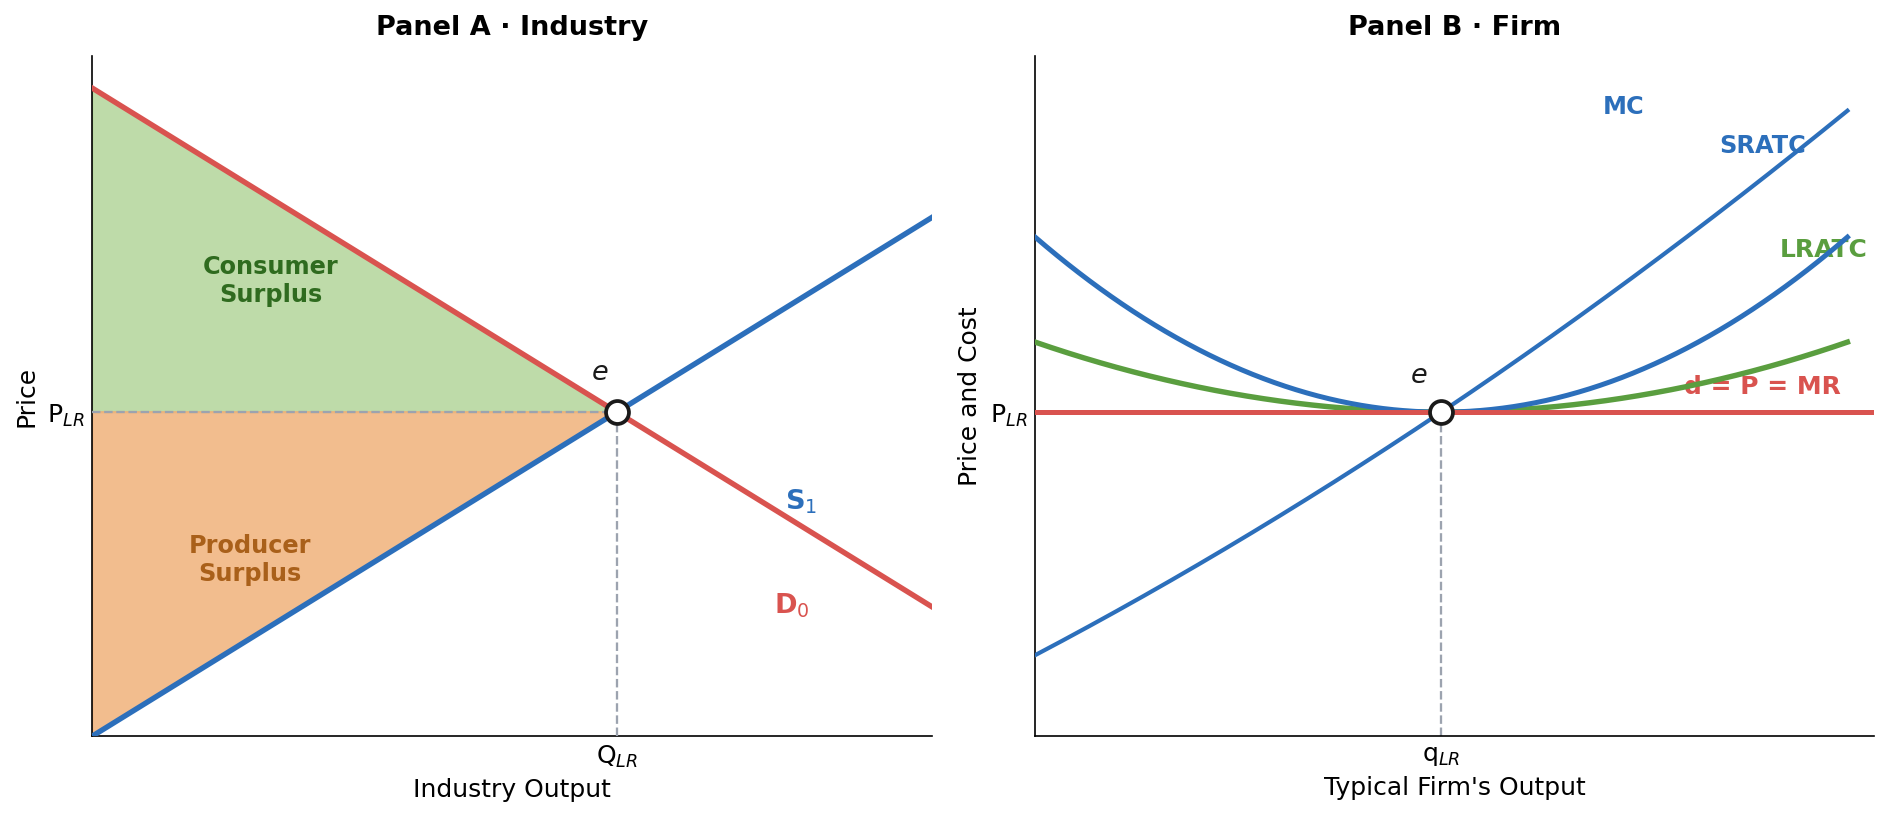
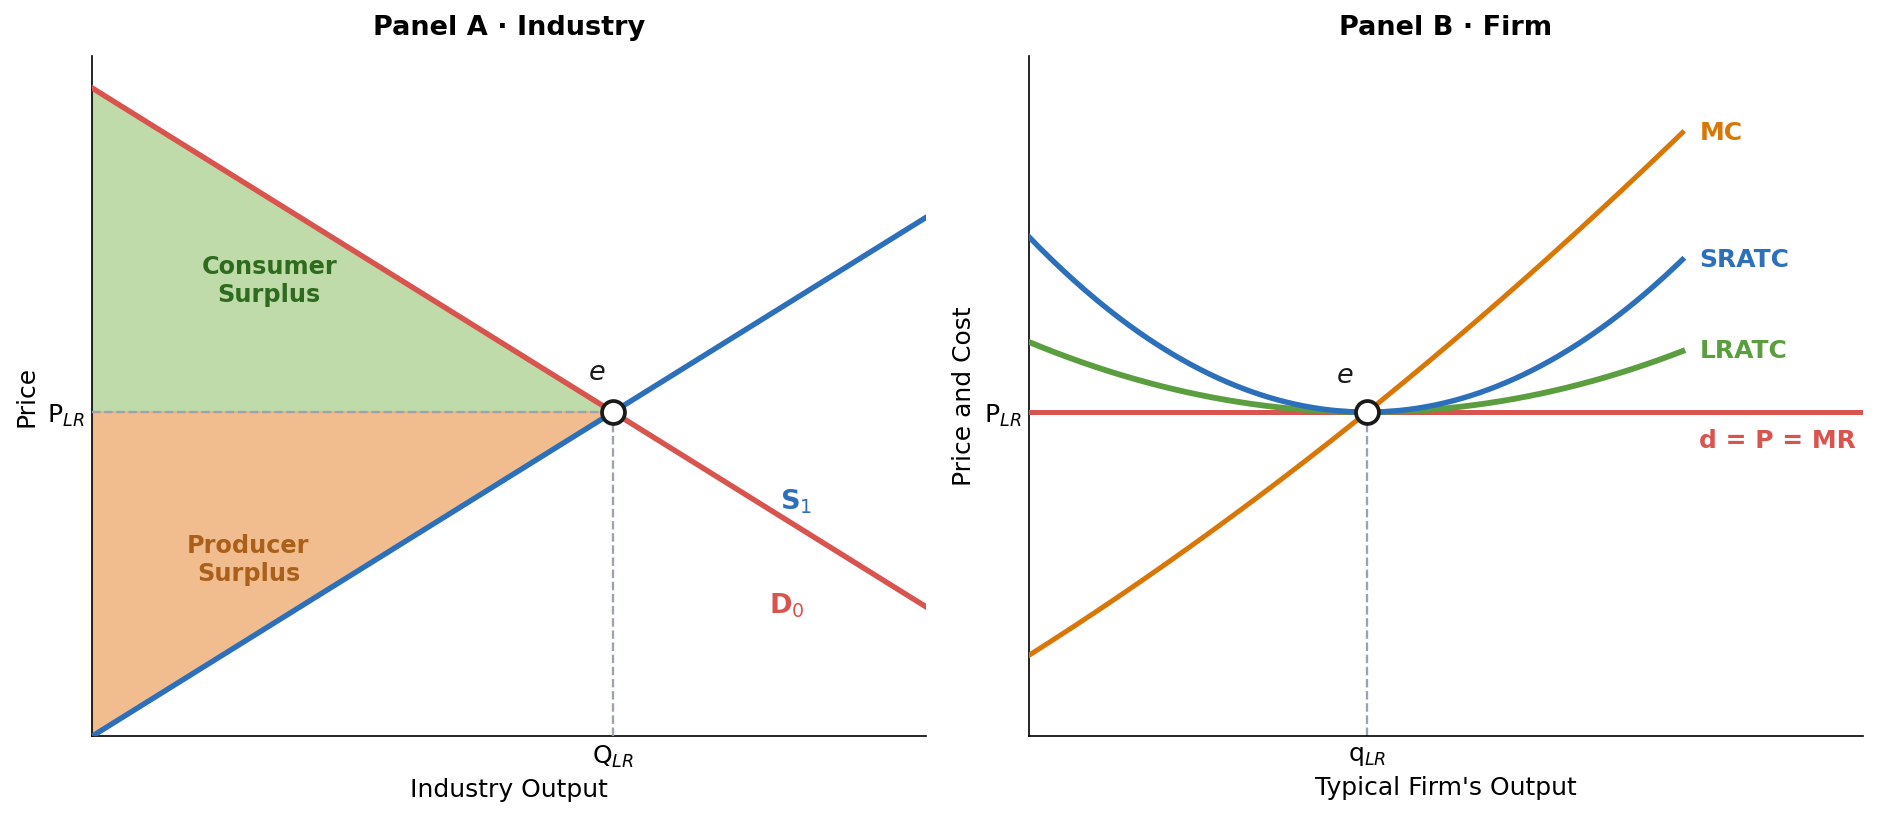
ch10: min-ATC-shift + LR-industry-supply slides; fix+merge efficiency slide
- Fix fig-lr-efficiency: MC now orange (distinct from SRATC blue), every curve
  label parked on its curve (was: SRATC hard to read, MC label floating).
- Merge the Efficiency Payoff slide INTO lr-efficiency (First Welfare Theorem
  line added to the equation box); delete the standalone efficiency-payoff slide.
- NEW 'A Cost Shock Raises min ATC' (after egg shock, from the hand-drawn ref):
  egg market $3.30->$4.95 + the firm's whole ATC family shifting up so min ATC
  (the LR price) rises $3.30->$4.95 (render_minatc_shift.py).
- NEW 'Long-Run Industry Supply' (after trucking): 3-panel increasing/constant/
  decreasing cost with S_LR up/flat/down + a/b/c (render_lr_industry_supply.py).
- Deck now 98 slides.

diff --git a/econ1116/ch10-perfect-competition/index.html b/econ1116/ch10-perfect-competition/index.html
@@ -1523,8 +1523,9 @@
  <div style="text-align:center;">
   <img src="figures/fig-lr-efficiency.png" alt="Two panels: the industry equilibrium e maximizes consumer plus producer surplus; the firm's flat demand is tangent to LRATC at its minimum where P=MR=MC=SRATC min=LRATC min" style="max-width:100%; max-height:328px; object-fit:contain;">
  </div>
- <div style="background:#f8f6f3; border-radius:8px; padding:7px 18px; margin-top:5px; text-align:center; border:2px solid var(--accent-color);">
-  <p style="font-size:16pt; margin:0; font-weight:700;">P = MR = MC = SRATC<sub>min</sub> = LRATC<sub>min</sub></p>
+ <div style="background:#f8f6f3; border-radius:8px; padding:8px 18px; margin-top:5px; text-align:center; border:2px solid var(--accent-color);">
+  <p style="font-size:16pt; margin:0 0 3px; font-weight:700;">P = MR = MC = SRATC<sub>min</sub> = LRATC<sub>min</sub></p>
+  <p style="font-size:11.5pt; margin:0; color:var(--text-color);">Both efficiencies, achieved <strong>automatically</strong> &mdash; the <strong>First Welfare Theorem</strong> (Arrow &amp; Debreu, 1950s) that Ch 6 previewed, now in its home habitat.</p>
  </div>
  <aside class="notes">The capstone diagram. Panel A: at the long-run equilibrium e, consumer surplus (green) + producer surplus (orange) are as large as they can be &mdash; total surplus is maximized. Panel B: the typical firm&rsquo;s flat demand d = P = MR is tangent to the LRATC at its minimum, which is also the minimum of the relevant SRATC, with MC passing through &mdash; so all five are equal: P = MR = MC = SRATC_min = LRATC_min. Production efficiency (min ATC) AND allocative efficiency (P = MC) together. The First Welfare Theorem, visualized.</aside>
 </section>
@@ -1547,6 +1548,18 @@
  <aside class="notes">Relocated to follow the long-run efficiency capstone, reframed as the SUPPLY-shock counterpoint to the demand-shock (dorm) story. A perfectly competitive market meeting a biological supply ceiling: steep (inelastic) short-run supply means a ~12% quantity cut along inelastic demand produced a 50% price spike; then over-rebuilding overshot the other way. The companion FRED series lets students measure the spike themselves.</aside>
 </section>
 
+<!-- change in min ATC: the egg cost shock raises min ATC -->
+<section id="minatc-shift">
+ <h2><i class="fa-solid fa-arrow-trend-up" style="color: var(--danger-color);"></i> A Cost Shock Raises min ATC</h2>
+ <div style="text-align:center;">
+  <img src="figures/fig-minatc-shift.png" alt="Two panels: the egg market price climbs $3.30 to $4.95 as supply contracts; the firm's whole ATC family shifts up so the minimum of ATC rises from $3.30 to $4.95" style="max-width:100%; max-height:382px; object-fit:contain;">
+ </div>
+ <div style="background:rgba(168,92,92,0.10); border-radius:8px; border-left:4px solid var(--danger-color); padding:9px 18px; margin-top:6px;">
+  <p style="font-size:13.5pt; margin:0;">The flu didn&rsquo;t just cut quantity &mdash; it <strong>raised the cost</strong> of producing a dozen (biosecurity, replacement flocks, pricier chicks &amp; feed). The whole <strong>ATC family shifts up</strong>, so the firm&rsquo;s <strong>min ATC</strong> &mdash; the long-run price &mdash; climbs from <strong>$3.30 to $4.95.</strong> A higher break-even, baked in.</p>
+ </div>
+ <aside class="notes">The firm-level reading of the egg shock, straight from the hand-drawn reference. The market panel (left) shows the supply contraction lifting price $3.30&rarr;$4.95 with Q down ~12%; the firm panel (right) shows WHY it can persist: avian flu raises per-dozen costs, so the whole ATC family shifts UP and the minimum of ATC &mdash; which is the long-run equilibrium price &mdash; rises from $3.30 to $4.95. This is the &ldquo;increasing cost&rdquo; mechanism at the firm level, and it sets up the long-run industry-supply cases on the next slide.</aside>
+</section>
+
 <!-- trucking -->
 <section id="trucking">
  <h2><i class="fa-solid fa-truck" style="color: var(--accent-color);"></i> The Trucking Freight Recession (2023&ndash;2025)</h2>
@@ -1563,6 +1576,20 @@
  <aside class="notes">The exit phase of the long-run adjustment, cleanly observed. Over-entry during the boom &rarr; losses &rarr; exit &rarr; supply contracts &rarr; price recovers to min ATC. The young exiting fleets make the point: these weren&rsquo;t failing dinosaurs, just miscalculated breakevens.</aside>
 </section>
 
+<!-- long-run industry supply: increasing / constant / decreasing cost -->
+<section id="lr-industry-supply">
+ <h2><i class="fa-solid fa-layer-group" style="color: var(--secondary-color);"></i> Long-Run Industry Supply</h2>
+ <ul style="font-size:12.5pt; margin:2px 0 4px; padding-left:22px; line-height:1.3;">
+  <li><strong>Increasing cost:</strong> as the industry expands, input prices rise &rarr; the long-run price rises (S<sub>LR</sub> slopes up). <em>&larr; the egg case.</em></li>
+  <li><strong>Constant cost:</strong> the industry can expand with no change in average cost (S<sub>LR</sub> flat).</li>
+  <li><strong>Decreasing cost:</strong> expansion lowers costs through economies of scale &rarr; the price falls (S<sub>LR</sub> slopes down).</li>
+ </ul>
+ <div style="text-align:center;">
+  <img src="figures/fig-lr-industry-supply.png" alt="Three panels (increasing, constant, decreasing cost): demand rises D0 to D1 lifting price a to b; entry shifts supply S0 to S1 to the long-run point c; connecting a and c traces the long-run supply curve S_LR sloping up, flat, or down" style="max-width:100%; max-height:340px; object-fit:contain;">
+ </div>
+ <aside class="notes">Generalizes the min-ATC slide. In every panel: demand rises D&#8320;&rarr;D&#8321; (a&rarr;b is the short-run price jump), then entry expands short-run supply S&#8320;&rarr;S&#8321; (b&rarr;c). Connecting the long-run equilibria a and c traces the long-run industry supply curve S_LR. Whether it slopes up (increasing cost &mdash; input prices bid up, e.g. eggs/oil), stays flat (constant cost &mdash; inputs available at constant price), or slopes down (decreasing cost &mdash; economies of scale, e.g. early tech) depends on what happens to input costs as the whole industry grows. The egg shock on the previous slides is the increasing-cost case.</aside>
+</section>
+
 <!-- zero profit feature -->
 <section id="zero-profit-feature">
  <h2><i class="fa-solid fa-hand-holding-dollar" style="color: var(--secondary-color);"></i> Zero Profit Is a Feature, Not a Bug</h2>
@@ -1577,25 +1604,6 @@
   </div>
  </div>
  <aside class="notes">Students find zero profit depressing until you separate economic from accounting profit. The deeper point: zero economic profit is the socially optimal resting point &mdash; price equals true opportunity cost. This is the welfare punchline that motivates the next slide.</aside>
-</section>
-
-<!-- efficiency payoff -->
-<section id="efficiency-payoff">
- <h2><i class="fa-solid fa-trophy" style="color: var(--accent-color);"></i> The Efficiency Payoff</h2>
- <div style="display: grid; grid-template-columns: 1fr 1fr; gap: 16px; margin-top: 6px;">
-  <div style="background: #ecfdf5; border-radius: 10px; padding: 16px 20px; border-left: 4px solid var(--success-color);">
-   <p style="font-size: 14pt; font-weight: 700; color: var(--success-color);">Productive efficiency</p>
-   <p style="font-size: 13.5pt;">Each firm produces at <strong>min ATC</strong> &mdash; the smallest possible resources per unit. No waste.</p>
-  </div>
-  <div style="background: #eff6ff; border-radius: 10px; padding: 16px 20px; border-left: 4px solid var(--secondary-color);">
-   <p style="font-size: 14pt; font-weight: 700; color: var(--secondary-color);">Allocative efficiency</p>
-   <p style="font-size: 13.5pt;"><strong>P = MC</strong> &mdash; the marginal buyer&rsquo;s willingness to pay equals the resource cost. No valuable trade left undone.</p>
-  </div>
- </div>
- <div style="background: #f8f6f3; border-radius: 10px; padding: 14px 20px; margin-top: 14px; text-align: center; border: 2px solid var(--accent-color);">
-  <p style="font-size: 14pt;">Both kinds of efficiency, achieved <strong>automatically.</strong> This is the <strong>First Welfare Theorem</strong> (Arrow &amp; Debreu, 1950s) that Ch 6 previewed &mdash; now in its home habitat.</p>
- </div>
- <aside class="notes">Connect back to Ch 6 total surplus: surplus is maximized where MB (demand) = MC (supply). Perfect competition gets there automatically because P = MC for every firm. This is the formal sense in which the invisible hand &ldquo;works.&rdquo; First Welfare Theorem.</aside>
 </section>
 
 <!-- Vernon Smith -->

diff --git a/econ1116/ch10-perfect-competition/presentation.html b/econ1116/ch10-perfect-competition/presentation.html
@@ -1523,8 +1523,9 @@
  <div style="text-align:center;">
   <img src="figures/fig-lr-efficiency.png" alt="Two panels: the industry equilibrium e maximizes consumer plus producer surplus; the firm's flat demand is tangent to LRATC at its minimum where P=MR=MC=SRATC min=LRATC min" style="max-width:100%; max-height:328px; object-fit:contain;">
  </div>
- <div style="background:#f8f6f3; border-radius:8px; padding:7px 18px; margin-top:5px; text-align:center; border:2px solid var(--accent-color);">
-  <p style="font-size:16pt; margin:0; font-weight:700;">P = MR = MC = SRATC<sub>min</sub> = LRATC<sub>min</sub></p>
+ <div style="background:#f8f6f3; border-radius:8px; padding:8px 18px; margin-top:5px; text-align:center; border:2px solid var(--accent-color);">
+  <p style="font-size:16pt; margin:0 0 3px; font-weight:700;">P = MR = MC = SRATC<sub>min</sub> = LRATC<sub>min</sub></p>
+  <p style="font-size:11.5pt; margin:0; color:var(--text-color);">Both efficiencies, achieved <strong>automatically</strong> &mdash; the <strong>First Welfare Theorem</strong> (Arrow &amp; Debreu, 1950s) that Ch 6 previewed, now in its home habitat.</p>
  </div>
  <aside class="notes">The capstone diagram. Panel A: at the long-run equilibrium e, consumer surplus (green) + producer surplus (orange) are as large as they can be &mdash; total surplus is maximized. Panel B: the typical firm&rsquo;s flat demand d = P = MR is tangent to the LRATC at its minimum, which is also the minimum of the relevant SRATC, with MC passing through &mdash; so all five are equal: P = MR = MC = SRATC_min = LRATC_min. Production efficiency (min ATC) AND allocative efficiency (P = MC) together. The First Welfare Theorem, visualized.</aside>
 </section>
@@ -1547,6 +1548,18 @@
  <aside class="notes">Relocated to follow the long-run efficiency capstone, reframed as the SUPPLY-shock counterpoint to the demand-shock (dorm) story. A perfectly competitive market meeting a biological supply ceiling: steep (inelastic) short-run supply means a ~12% quantity cut along inelastic demand produced a 50% price spike; then over-rebuilding overshot the other way. The companion FRED series lets students measure the spike themselves.</aside>
 </section>
 
+<!-- change in min ATC: the egg cost shock raises min ATC -->
+<section id="minatc-shift">
+ <h2><i class="fa-solid fa-arrow-trend-up" style="color: var(--danger-color);"></i> A Cost Shock Raises min ATC</h2>
+ <div style="text-align:center;">
+  <img src="figures/fig-minatc-shift.png" alt="Two panels: the egg market price climbs $3.30 to $4.95 as supply contracts; the firm's whole ATC family shifts up so the minimum of ATC rises from $3.30 to $4.95" style="max-width:100%; max-height:382px; object-fit:contain;">
+ </div>
+ <div style="background:rgba(168,92,92,0.10); border-radius:8px; border-left:4px solid var(--danger-color); padding:9px 18px; margin-top:6px;">
+  <p style="font-size:13.5pt; margin:0;">The flu didn&rsquo;t just cut quantity &mdash; it <strong>raised the cost</strong> of producing a dozen (biosecurity, replacement flocks, pricier chicks &amp; feed). The whole <strong>ATC family shifts up</strong>, so the firm&rsquo;s <strong>min ATC</strong> &mdash; the long-run price &mdash; climbs from <strong>$3.30 to $4.95.</strong> A higher break-even, baked in.</p>
+ </div>
+ <aside class="notes">The firm-level reading of the egg shock, straight from the hand-drawn reference. The market panel (left) shows the supply contraction lifting price $3.30&rarr;$4.95 with Q down ~12%; the firm panel (right) shows WHY it can persist: avian flu raises per-dozen costs, so the whole ATC family shifts UP and the minimum of ATC &mdash; which is the long-run equilibrium price &mdash; rises from $3.30 to $4.95. This is the &ldquo;increasing cost&rdquo; mechanism at the firm level, and it sets up the long-run industry-supply cases on the next slide.</aside>
+</section>
+
 <!-- trucking -->
 <section id="trucking">
  <h2><i class="fa-solid fa-truck" style="color: var(--accent-color);"></i> The Trucking Freight Recession (2023&ndash;2025)</h2>
@@ -1563,6 +1576,20 @@
  <aside class="notes">The exit phase of the long-run adjustment, cleanly observed. Over-entry during the boom &rarr; losses &rarr; exit &rarr; supply contracts &rarr; price recovers to min ATC. The young exiting fleets make the point: these weren&rsquo;t failing dinosaurs, just miscalculated breakevens.</aside>
 </section>
 
+<!-- long-run industry supply: increasing / constant / decreasing cost -->
+<section id="lr-industry-supply">
+ <h2><i class="fa-solid fa-layer-group" style="color: var(--secondary-color);"></i> Long-Run Industry Supply</h2>
+ <ul style="font-size:12.5pt; margin:2px 0 4px; padding-left:22px; line-height:1.3;">
+  <li><strong>Increasing cost:</strong> as the industry expands, input prices rise &rarr; the long-run price rises (S<sub>LR</sub> slopes up). <em>&larr; the egg case.</em></li>
+  <li><strong>Constant cost:</strong> the industry can expand with no change in average cost (S<sub>LR</sub> flat).</li>
+  <li><strong>Decreasing cost:</strong> expansion lowers costs through economies of scale &rarr; the price falls (S<sub>LR</sub> slopes down).</li>
+ </ul>
+ <div style="text-align:center;">
+  <img src="figures/fig-lr-industry-supply.png" alt="Three panels (increasing, constant, decreasing cost): demand rises D0 to D1 lifting price a to b; entry shifts supply S0 to S1 to the long-run point c; connecting a and c traces the long-run supply curve S_LR sloping up, flat, or down" style="max-width:100%; max-height:340px; object-fit:contain;">
+ </div>
+ <aside class="notes">Generalizes the min-ATC slide. In every panel: demand rises D&#8320;&rarr;D&#8321; (a&rarr;b is the short-run price jump), then entry expands short-run supply S&#8320;&rarr;S&#8321; (b&rarr;c). Connecting the long-run equilibria a and c traces the long-run industry supply curve S_LR. Whether it slopes up (increasing cost &mdash; input prices bid up, e.g. eggs/oil), stays flat (constant cost &mdash; inputs available at constant price), or slopes down (decreasing cost &mdash; economies of scale, e.g. early tech) depends on what happens to input costs as the whole industry grows. The egg shock on the previous slides is the increasing-cost case.</aside>
+</section>
+
 <!-- zero profit feature -->
 <section id="zero-profit-feature">
  <h2><i class="fa-solid fa-hand-holding-dollar" style="color: var(--secondary-color);"></i> Zero Profit Is a Feature, Not a Bug</h2>
@@ -1577,25 +1604,6 @@
   </div>
  </div>
  <aside class="notes">Students find zero profit depressing until you separate economic from accounting profit. The deeper point: zero economic profit is the socially optimal resting point &mdash; price equals true opportunity cost. This is the welfare punchline that motivates the next slide.</aside>
-</section>
-
-<!-- efficiency payoff -->
-<section id="efficiency-payoff">
- <h2><i class="fa-solid fa-trophy" style="color: var(--accent-color);"></i> The Efficiency Payoff</h2>
- <div style="display: grid; grid-template-columns: 1fr 1fr; gap: 16px; margin-top: 6px;">
-  <div style="background: #ecfdf5; border-radius: 10px; padding: 16px 20px; border-left: 4px solid var(--success-color);">
-   <p style="font-size: 14pt; font-weight: 700; color: var(--success-color);">Productive efficiency</p>
-   <p style="font-size: 13.5pt;">Each firm produces at <strong>min ATC</strong> &mdash; the smallest possible resources per unit. No waste.</p>
-  </div>
-  <div style="background: #eff6ff; border-radius: 10px; padding: 16px 20px; border-left: 4px solid var(--secondary-color);">
-   <p style="font-size: 14pt; font-weight: 700; color: var(--secondary-color);">Allocative efficiency</p>
-   <p style="font-size: 13.5pt;"><strong>P = MC</strong> &mdash; the marginal buyer&rsquo;s willingness to pay equals the resource cost. No valuable trade left undone.</p>
-  </div>
- </div>
- <div style="background: #f8f6f3; border-radius: 10px; padding: 14px 20px; margin-top: 14px; text-align: center; border: 2px solid var(--accent-color);">
-  <p style="font-size: 14pt;">Both kinds of efficiency, achieved <strong>automatically.</strong> This is the <strong>First Welfare Theorem</strong> (Arrow &amp; Debreu, 1950s) that Ch 6 previewed &mdash; now in its home habitat.</p>
- </div>
- <aside class="notes">Connect back to Ch 6 total surplus: surplus is maximized where MB (demand) = MC (supply). Perfect competition gets there automatically because P = MC for every firm. This is the formal sense in which the invisible hand &ldquo;works.&rdquo; First Welfare Theorem.</aside>
 </section>
 
 <!-- Vernon Smith -->
